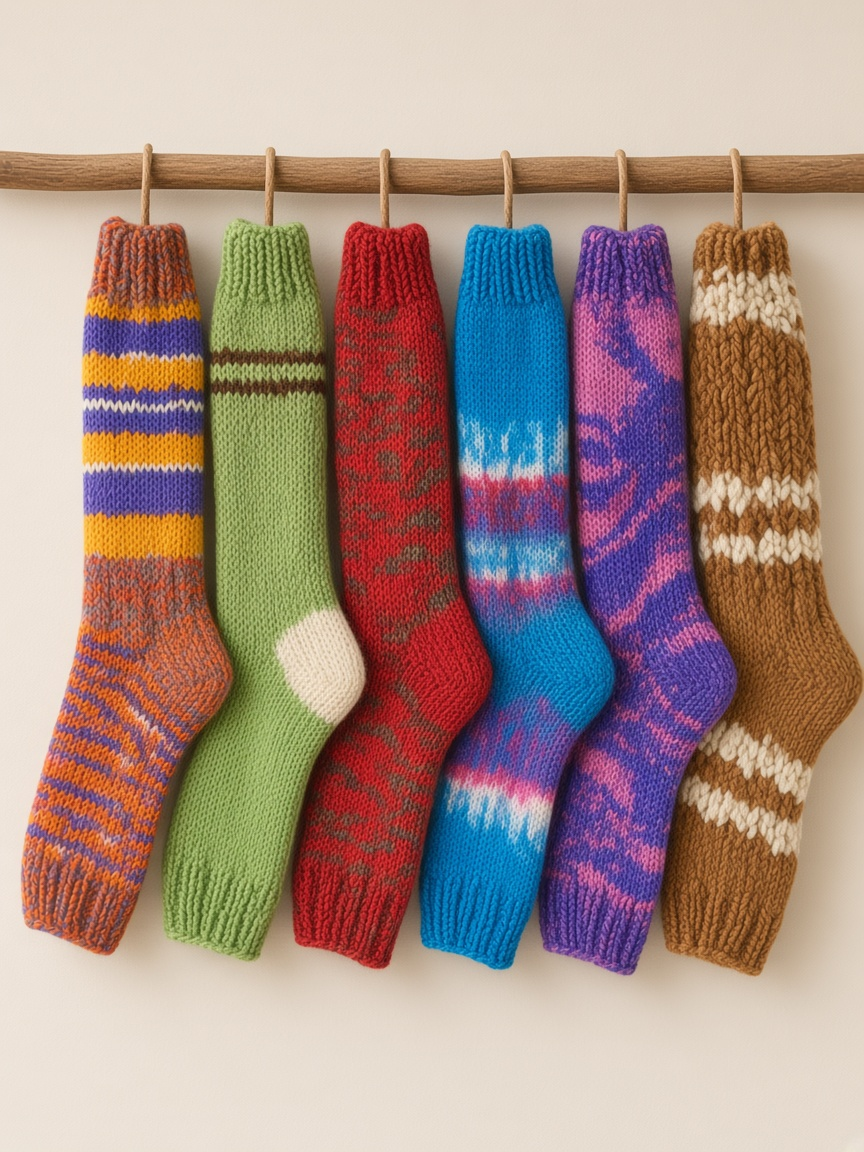
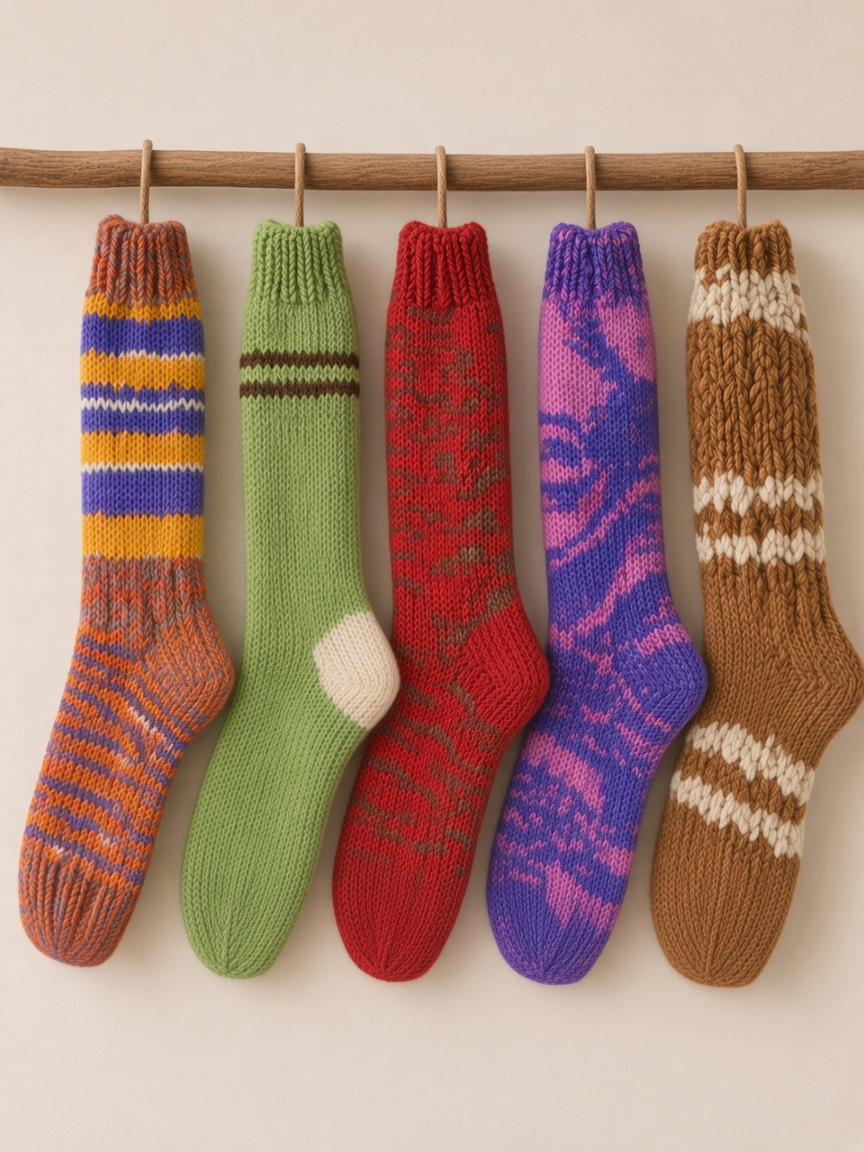
Actualizar foto de calcetines: quitar la media azul y mostrar la punta.

diff --git a/index.html b/index.html
@@ -205,7 +205,7 @@
         </article>
 
         <article class="card" data-cat="calcetines" tabindex="0">
-          <img src="img/producto-calcetines.jpg" alt="Seis calcetines de lana de colores colgados de una vara de madera.">
+          <img src="img/producto-calcetines.jpg" alt="Cinco calcetines de lana de colores colgados de una vara de madera.">
           <div class="card-body">
             <p class="tag">Calcetines</p>
             <h3>Medias de color</h3>
